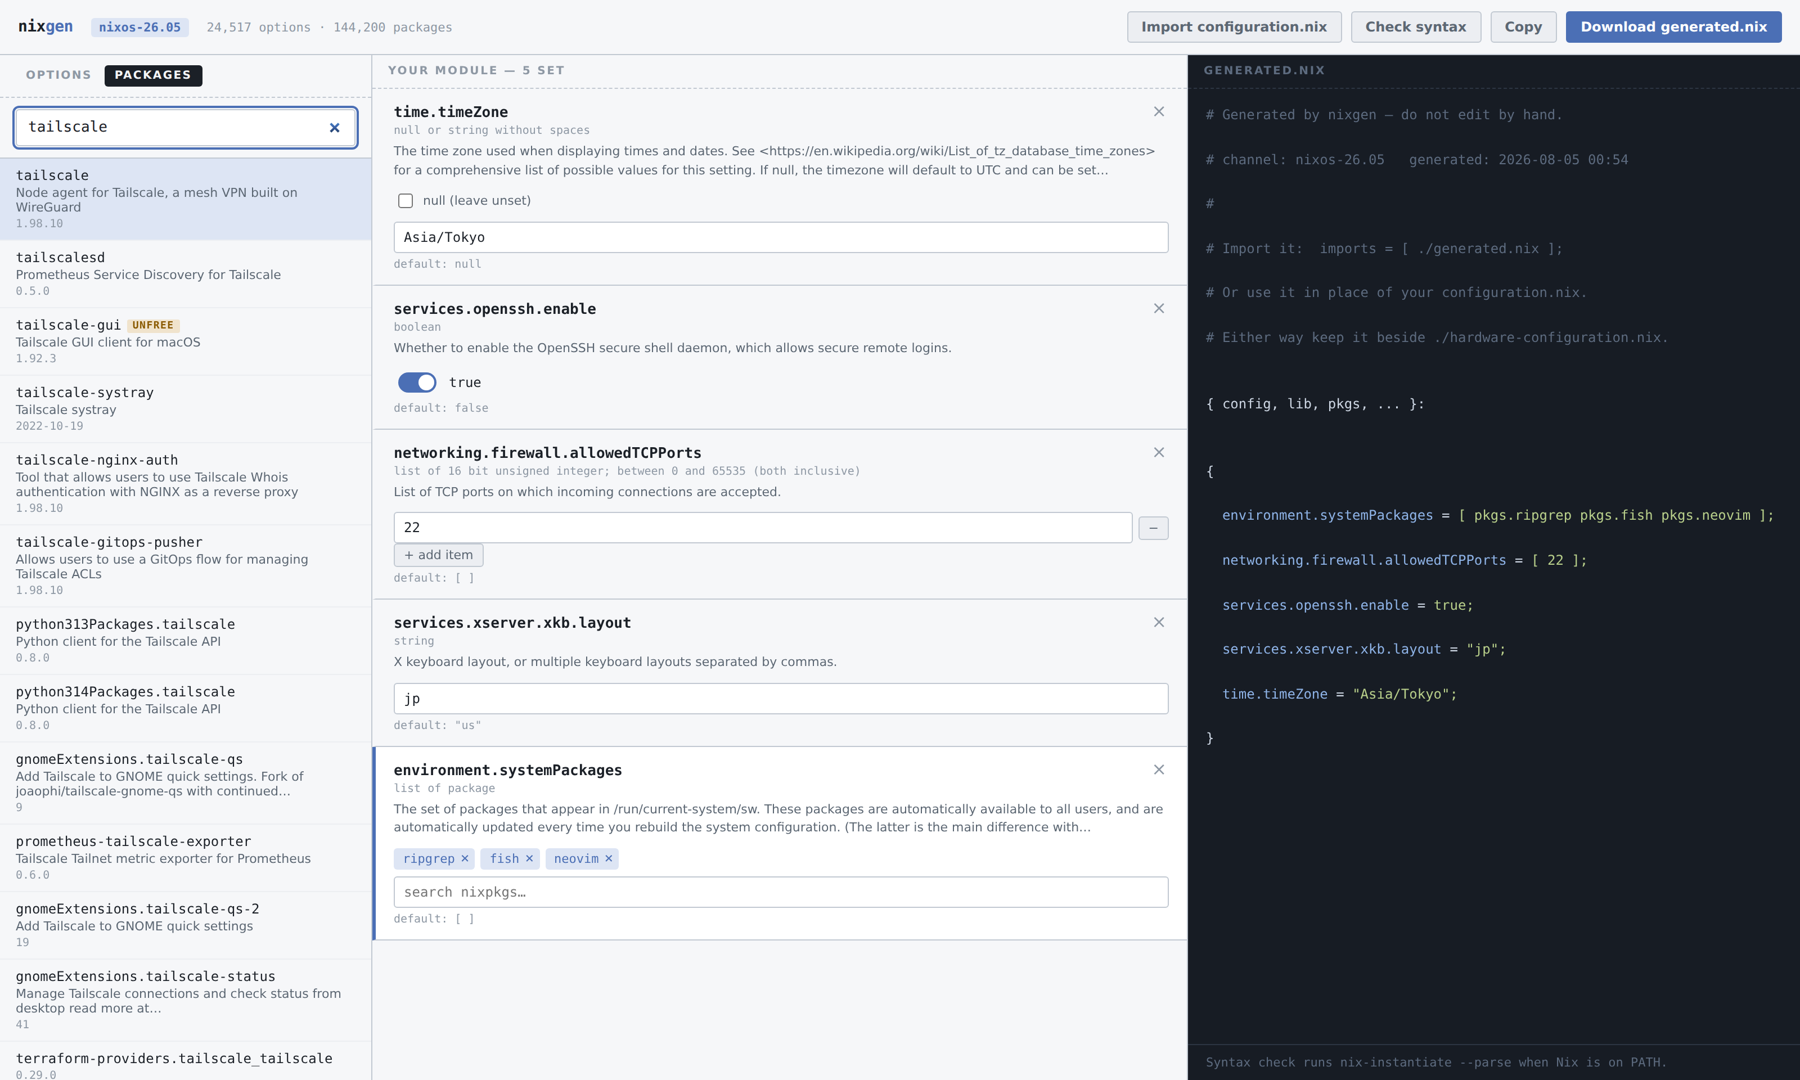
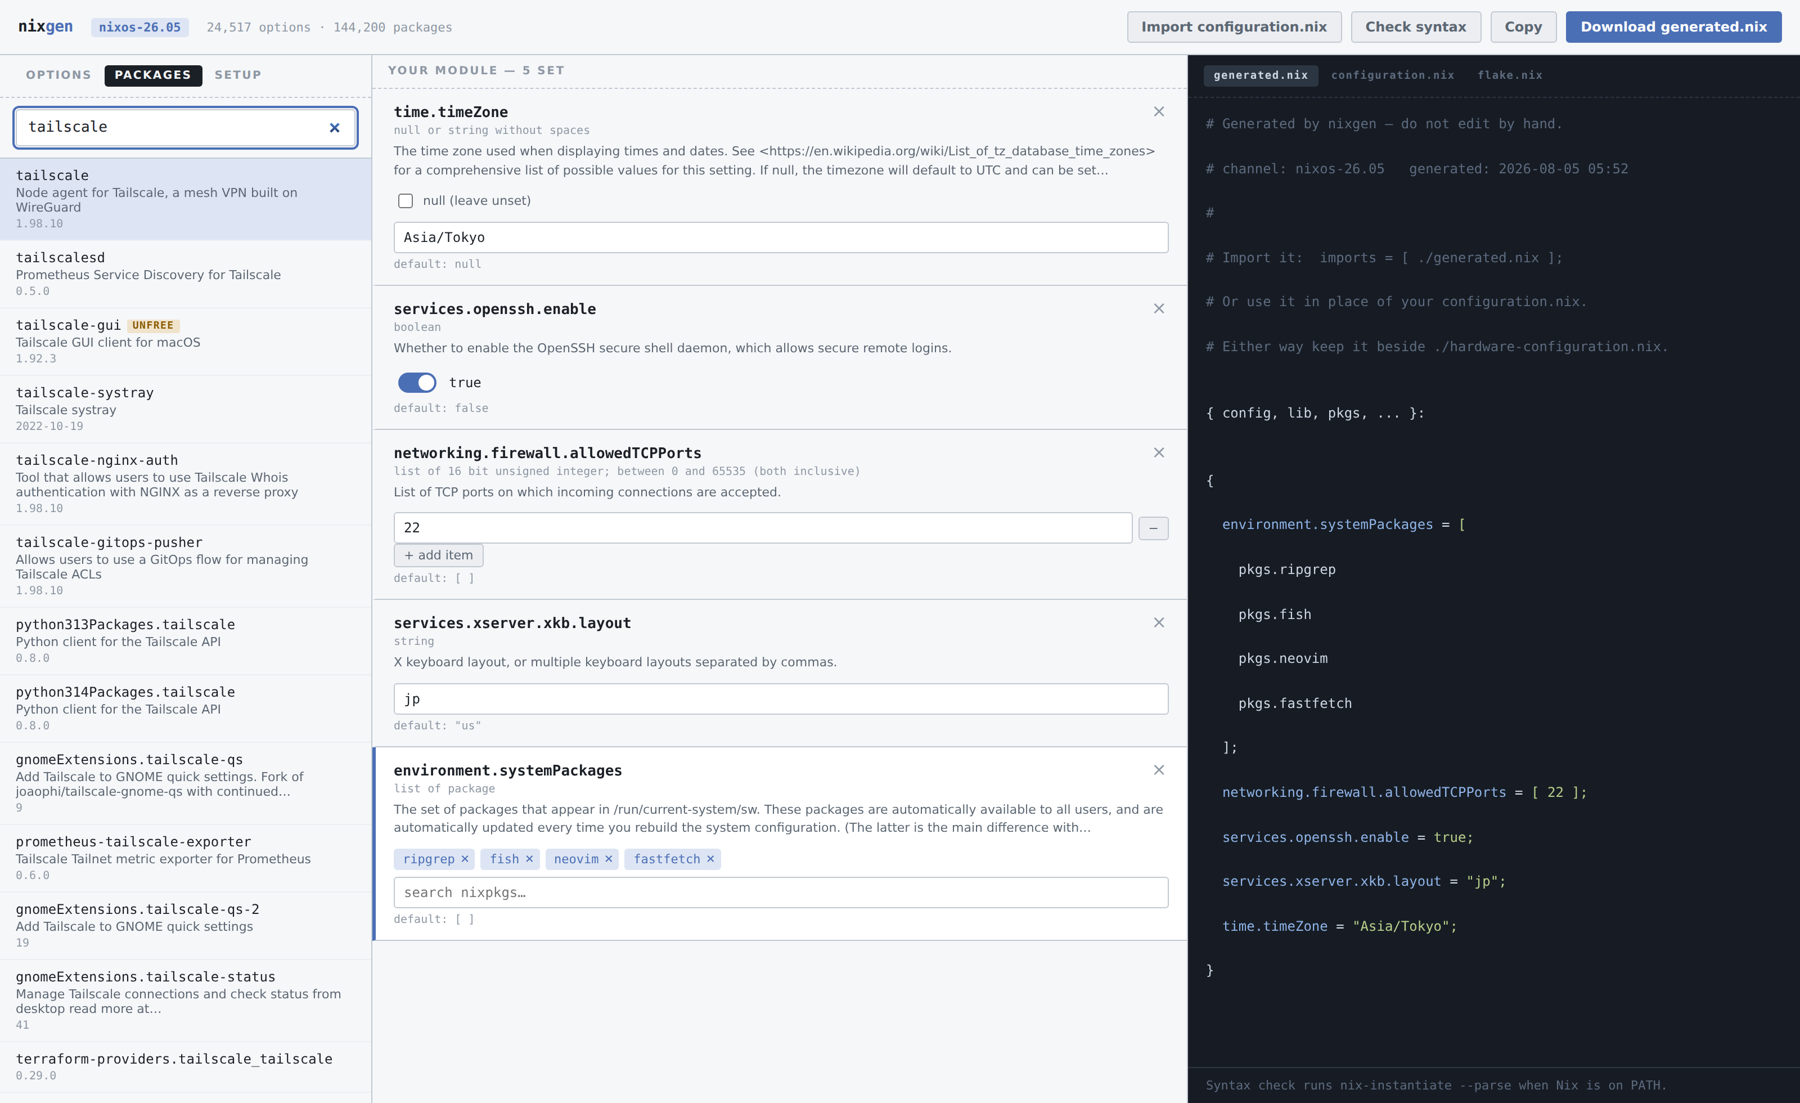
Refresh screenshots; document the Setup tab on the homepage

diff --git a/docs/index.html b/docs/index.html
@@ -2,7 +2,7 @@
 <!--
   GitHub Pages landing page for nixgen.
 
-  Before publishing, replace hatake716 below with your account name,
+  Before publishing, replace YOUR-GITHUB-NAME below with your account name,
   then enable Pages in the repository settings with the source set to
   "Deploy from a branch" -> main -> /docs.
 -->
@@ -138,7 +138,7 @@ footer a { margin-right: 14px; }
     <div class="brand">nix<span>gen</span></div>
     <nav>
       <button class="btn" id="lang">日本語</button>
-      <a class="btn primary" href="https://github.com/hatake716/nixgen">GitHub</a>
+      <a class="btn primary" href="https://github.com/YOUR-GITHUB-NAME/nixgen">GitHub</a>
     </nav>
   </div>
 </header>
@@ -163,7 +163,7 @@ footer a { margin-right: 14px; }
         <div class="stat"><b>0</b><span class="en">dependencies</span><span class="ja">依存パッケージ</span></div>
       </div>
 
-      <pre class="cmd"><span class="p">$</span> nix run github:hatake716/nixgen</pre>
+      <pre class="cmd"><span class="p">$</span> nix run github:YOUR-GITHUB-NAME/nixgen</pre>
       <p class="tiny en">No clone, no pip, no npm — Python's standard library and a browser.</p>
       <p class="tiny ja">cloneもpipもnpmも不要。Pythonの標準ライブラリとブラウザだけです。</p>
     </div>
@@ -295,6 +295,35 @@ https://channels.nixos.org/nixos-26.05/packages.json.br</pre>
 
 <section>
   <div class="wrap">
+    <p class="eyebrow en">Starting from scratch</p>
+    <p class="eyebrow ja">ゼロから始める</p>
+    <h2 class="en">It writes the files around the module too.</h2>
+    <h2 class="ja">モジュールの周りのファイルも書きます。</h2>
+
+    <p class="en">The Setup tab produces the <code>configuration.nix</code> that imports the
+      generated module and the <code>flake.nix</code> that builds the system. Give it a host
+      name, a user name and an architecture.</p>
+    <p class="ja">Setupタブは、生成モジュールをimportする <code>configuration.nix</code> と、
+      システムをビルドする <code>flake.nix</code> を出力します。入力はホスト名・ユーザー名・アーキテクチャの3つだけです。</p>
+
+    <p class="en">Every definition in that <code>configuration.nix</code> is wrapped in
+      <code>lib.mkDefault</code>, so what you set in nixgen wins instead of colliding. Where the
+      two files do define the same option, the line turns red and the card says so — because two
+      <code>mkDefault</code> definitions of equal priority make NixOS refuse to choose.</p>
+    <p class="ja">その <code>configuration.nix</code> は全ての定義を <code>lib.mkDefault</code> で包んでいるので、
+      nixgen側で設定した値が衝突せずに優先されます。それでも両方が同じオプションを定義した場合は、行が赤くなりカードにも表示が出ます。
+      同じ優先度の <code>mkDefault</code> が2つあると、NixOSはどちらを採るか決められないためです。</p>
+
+    <figure>
+      <img src="screenshot-setup.png" alt="The Setup tab, with host name and user name on the left and the generated configuration.nix on the right">
+      <figcaption class="en">Starter files, generated from three fields.</figcaption>
+      <figcaption class="ja">3つの入力欄からスターターファイルが生成されます。</figcaption>
+    </figure>
+  </div>
+</section>
+
+<section>
+  <div class="wrap">
     <p class="eyebrow en">Correctness</p>
     <p class="eyebrow ja">正しさの検証</p>
     <h2 class="en">Fuzzed against the real Nix parser.</h2>
@@ -324,9 +353,11 @@ https://channels.nixos.org/nixos-26.05/packages.json.br</pre>
 
     <p class="en">Attribute paths are rendered segment by segment, and any segment that is not a
       plain identifier is quoted — so a vhost named <code>my site.example.com</code> comes out as
-      valid Nix rather than a broken file.</p>
+      valid Nix rather than a broken file. The starter files get the same treatment: they are
+      evaluated as an actual NixOS system, down to <code>config.system.build.toplevel</code>.</p>
     <p class="ja">属性パスはセグメント単位でレンダリングし、通常の識別子でないものは自動でクォートします。
-      <code>my site.example.com</code> という名前のvhostも、壊れたファイルではなく有効なNixになります。</p>
+      <code>my site.example.com</code> という名前のvhostも、壊れたファイルではなく有効なNixになります。
+      スターターファイルも同様で、実際のNixOSシステムとして <code>config.system.build.toplevel</code> まで評価して確認しています。</p>
   </div>
 </section>
 
@@ -363,10 +394,10 @@ https://channels.nixos.org/nixos-26.05/packages.json.br</pre>
 <footer>
   <div class="wrap">
     <div>
-      <a href="https://github.com/hatake716/nixgen">GitHub</a>
-      <a href="https://github.com/hatake716/nixgen/blob/main/README.md">README</a>
-      <a href="https://github.com/hatake716/nixgen/blob/main/README.ja.md">README (日本語)</a>
-      <a href="https://github.com/hatake716/nixgen/blob/main/LICENSE">MIT License</a>
+      <a href="https://github.com/YOUR-GITHUB-NAME/nixgen">GitHub</a>
+      <a href="https://github.com/YOUR-GITHUB-NAME/nixgen/blob/main/README.md">README</a>
+      <a href="https://github.com/YOUR-GITHUB-NAME/nixgen/blob/main/README.ja.md">README (日本語)</a>
+      <a href="https://github.com/YOUR-GITHUB-NAME/nixgen/blob/main/LICENSE">MIT License</a>
     </div>
     <div style="margin-left:auto">
       <span class="en">Not affiliated with the NixOS project.</span>
